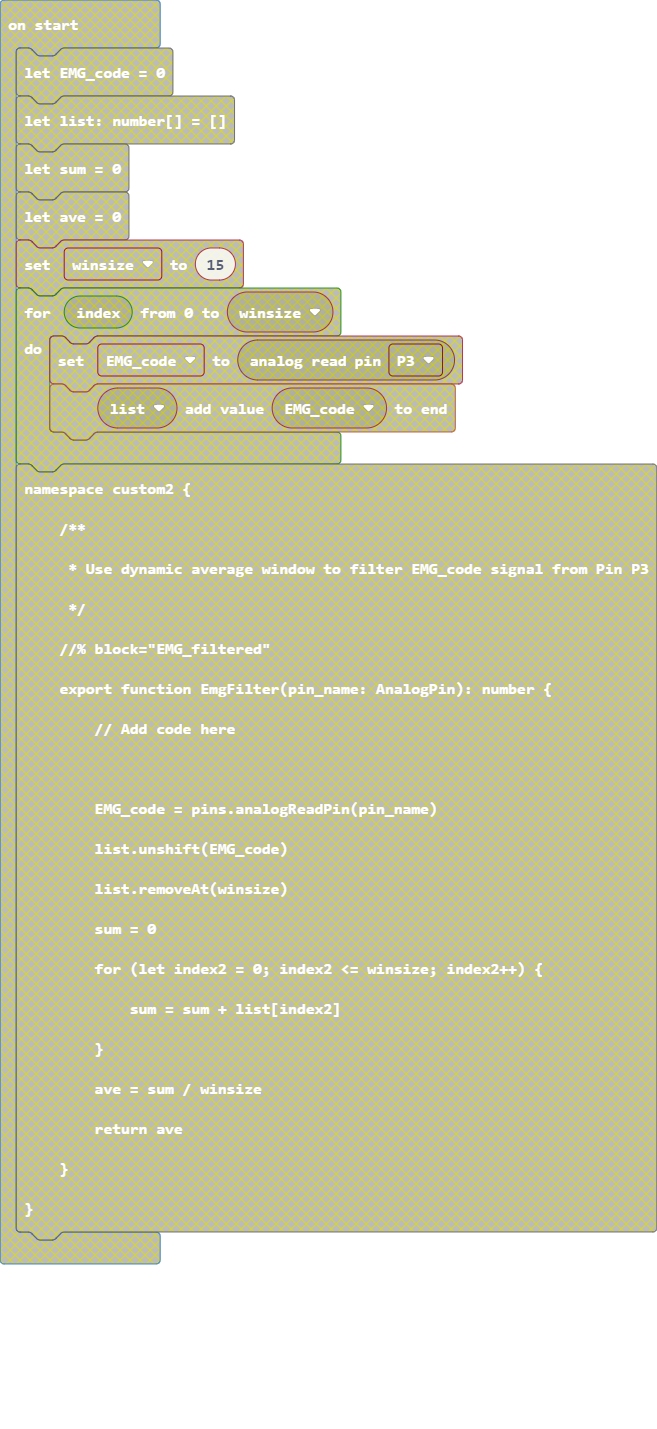
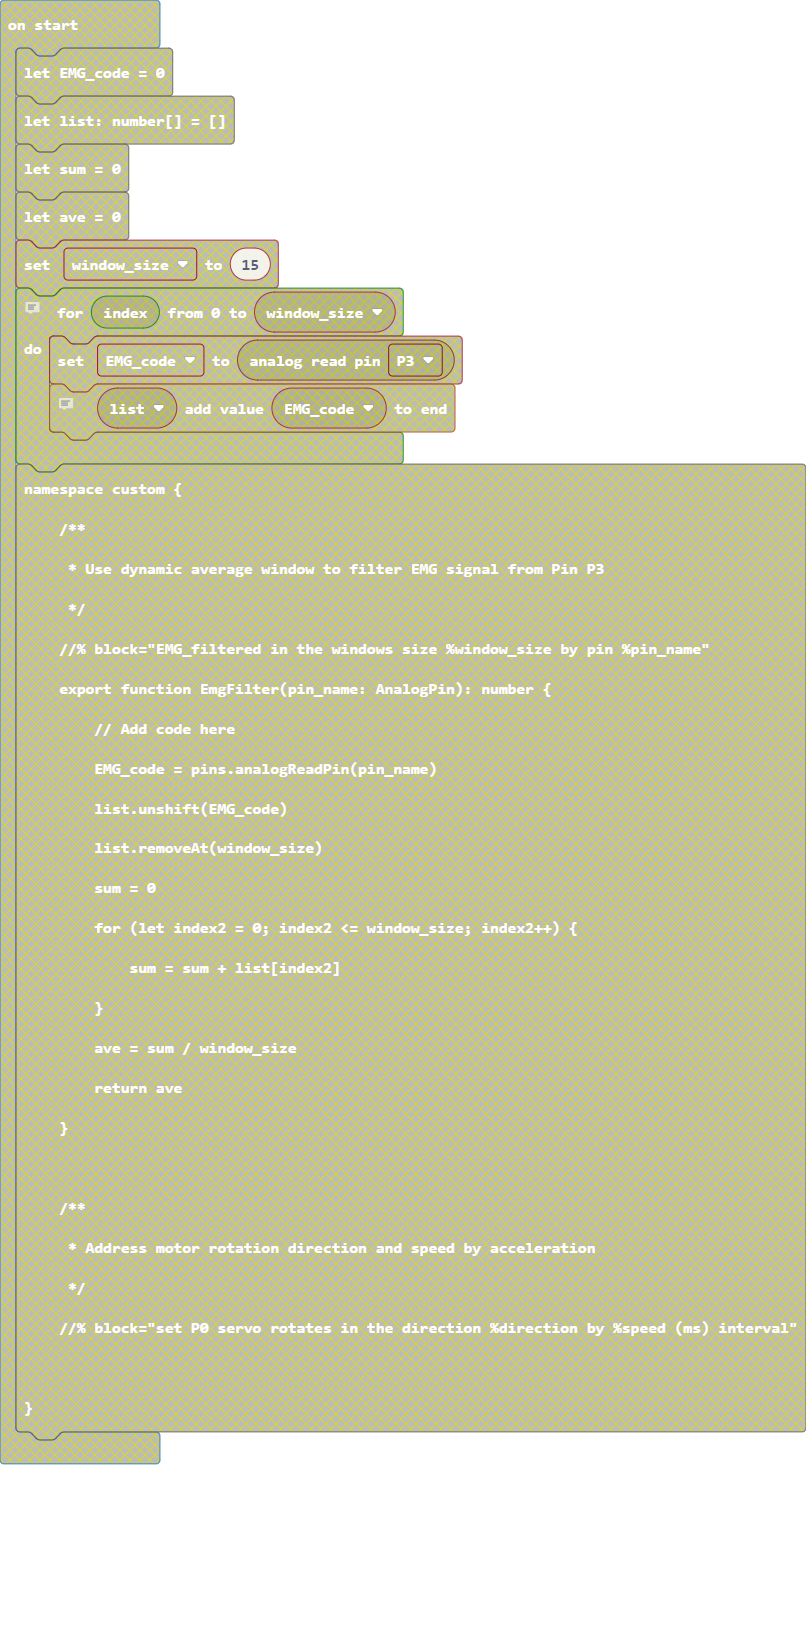
Update main.blocks, main.ts

diff --git a/main.ts b/main.ts
@@ -3,10 +3,10 @@
  * 
  * Read more at https://makecode.microbit.org/blocks/custom
  */
-let EMG_code = 0
-let list: number[] = []
-let sum = 0
 let ave = 0
+let sum = 0
+let list: number[] = []
+let EMG_code = 0
 let window_size = 15
 // Change the EMG name to EMG_code so student's variable will not have conflict
 for (let index = 0; index <= window_size; index++) {
@@ -14,7 +14,7 @@ for (let index = 0; index <= window_size; index++) {
     // list.push(0)
     list.push(EMG_code)
 }
-namespace custom {
+namespace custom2 {
     /**
      * Use dynamic average window to filter EMG signal from Pin P3
      */
